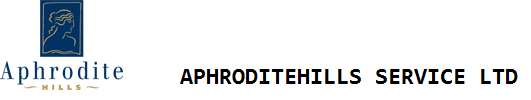
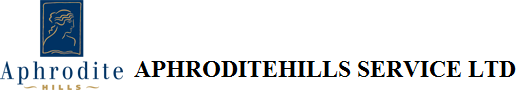
eisagwgh ikonas gia to pdf

Changed region(s): [[0.2411, 0.6, 0.9944, 0.84]]

diff --git a/src/logistics/CompanyDocument.java b/src/logistics/CompanyDocument.java
@@ -6,6 +6,7 @@ import java.sql.ResultSet;
 import com.itextpdf.text.Document;
 import com.itextpdf.text.Element;
 import com.itextpdf.text.Font;
+import com.itextpdf.text.Image;
 import com.itextpdf.text.Paragraph;
 import com.itextpdf.text.Phrase;
 import com.itextpdf.text.pdf.PdfPCell;
@@ -79,14 +80,14 @@ public class CompanyDocument {
 	
 	public   void  createHeader(Document doc) throws Exception{
 		
-		Paragraph TitlePara = new Paragraph(CompanyName,BIGBOLD);
-		TitlePara.setAlignment(Element.ALIGN_CENTER);
-		doc.add(TitlePara);
-		
+		Image image1 = Image.getInstance("PDF-IMAGE.png");
+		doc.add(image1);
 		
 		Paragraph HeaderPara = new Paragraph(general,smallbold);
 		HeaderPara.setAlignment(Element.ALIGN_CENTER);
 		doc.add(HeaderPara);
+		
+
 		
 		doc.add(NewLine);
 		if (type ==INVOICE){
@@ -109,6 +110,9 @@ public class CompanyDocument {
 		Paragraph CustDetails = new Paragraph(CustomerDetails,smallbold);
 		CustDetails.setAlignment(Element.ALIGN_LEFT);
 		doc.add(CustDetails);
+		
+		
+		
 		
 	}
 	
